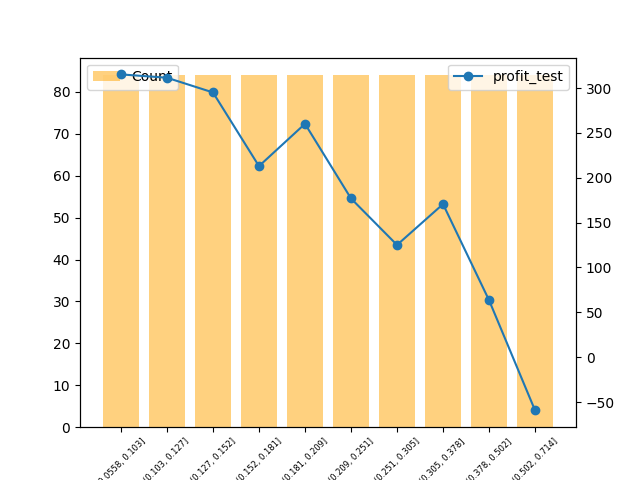
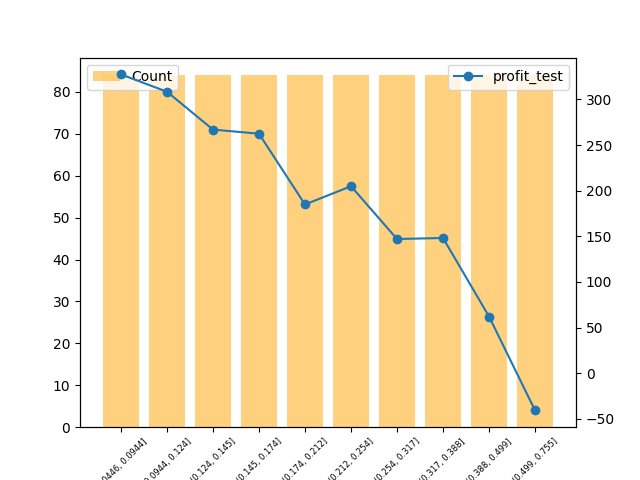
wtf

diff --git a/default_model/train_default_model.py b/default_model/train_default_model.py
@@ -147,7 +147,7 @@ config = {
 
 y_pred_proba, y_pred, extra = default_model_trainer.fit(
         X_train, X_test, y_train, y_test, extra,
-        time_budget=180, 
+        time_budget=20, 
         automl_config=config,
         show_plots=True,
         percentile=90
